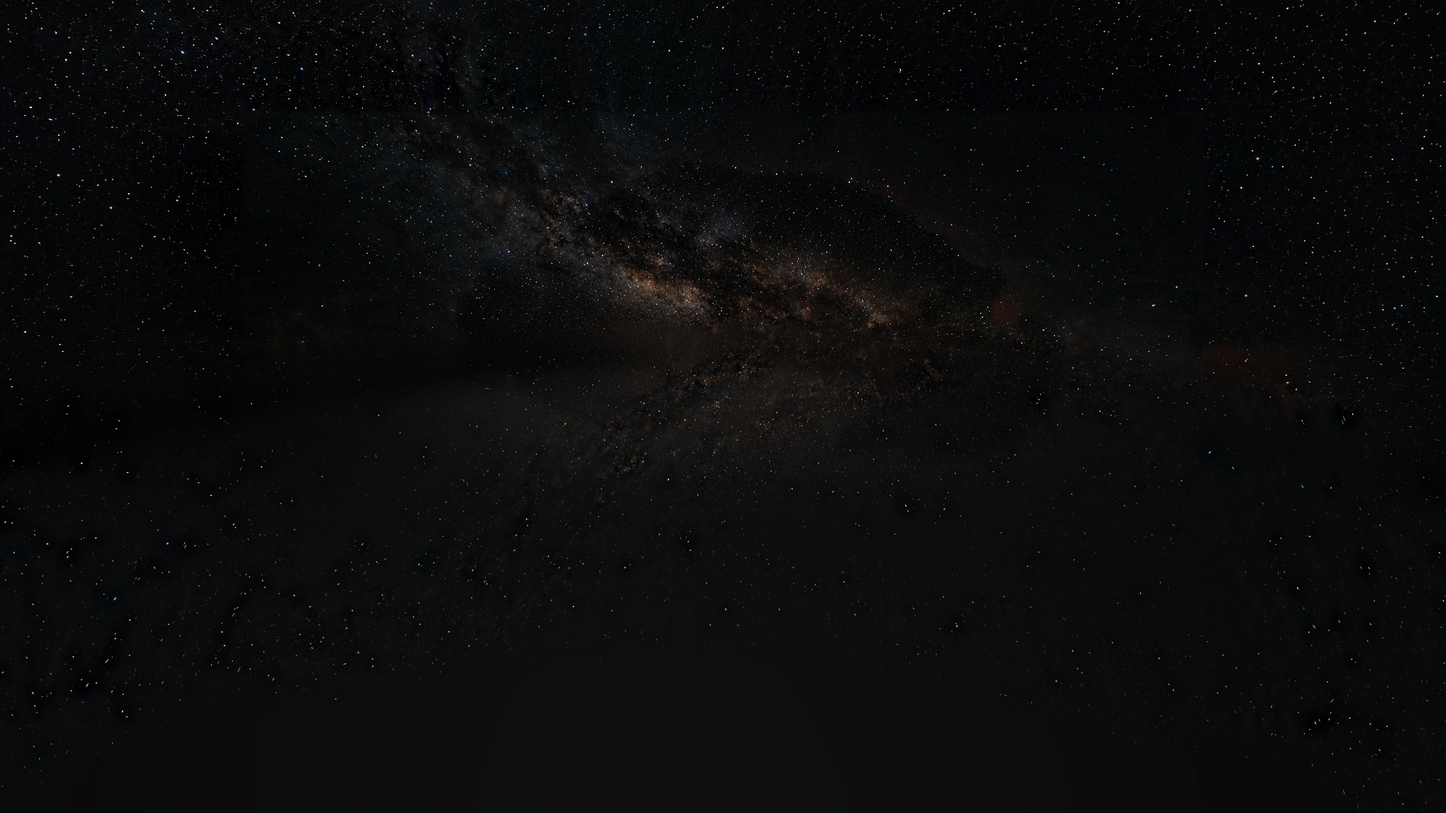
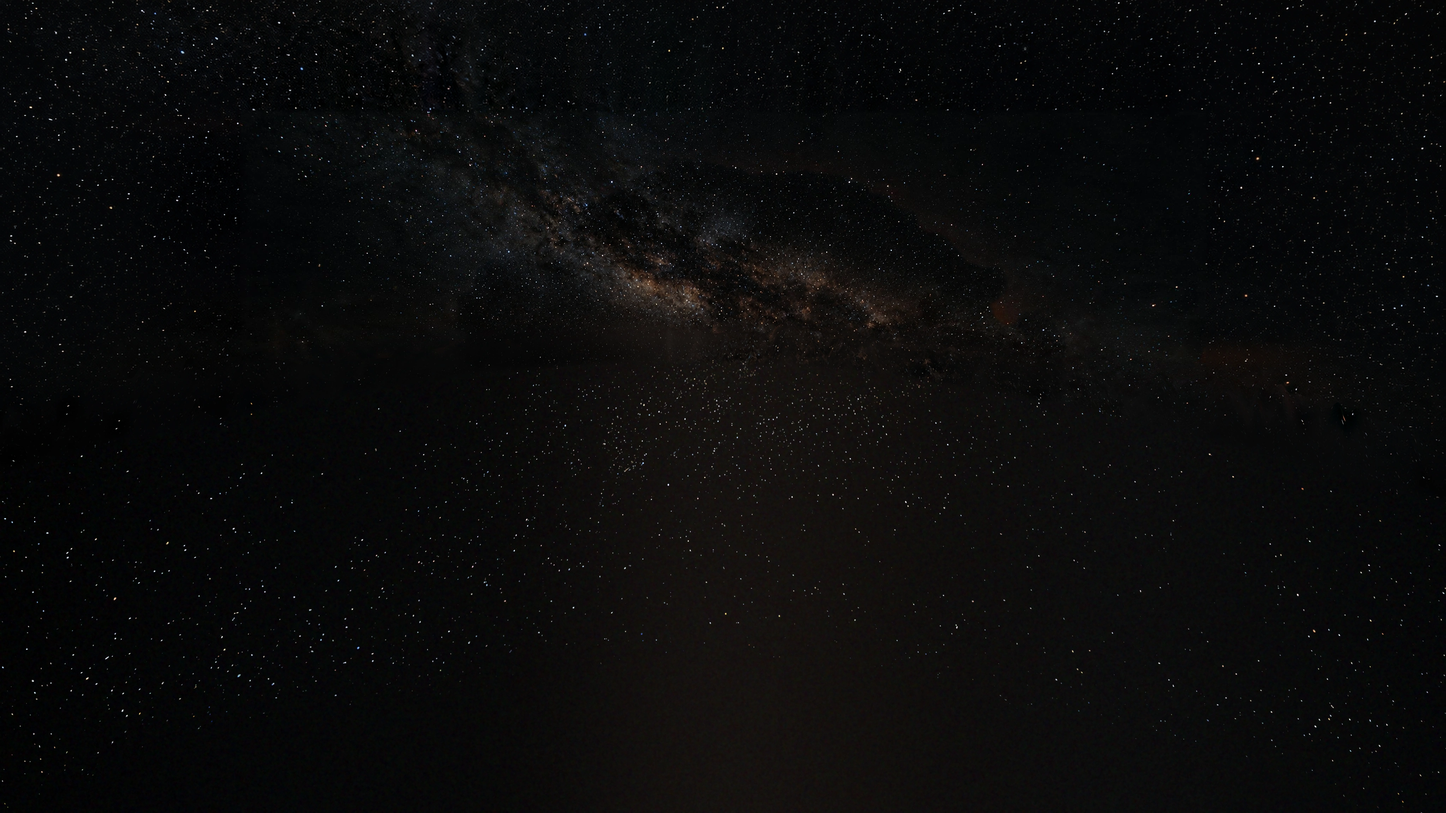
sun item 4: sky card below the limb is a smooth level with star points and grain; ground.ts helper renamed for the shader audit

diff --git a/src/stops/sun/ground.ts b/src/stops/sun/ground.ts
@@ -97,7 +97,7 @@ ${GRADE_GLSL}
 float lumAt(sampler2D map, vec2 uv, float lod) {
   return dot(textureLod(map, uv, lod).rgb, vec3(0.3, 0.5, 0.2));
 }
-vec4 surface(sampler2D map, vec2 uv, vec2 dx, vec2 dy, vec2 cell, float lod, float calm, out vec2 moved) {
+vec4 boiled(sampler2D map, vec2 uv, vec2 dx, vec2 dy, vec2 cell, float lod, float calm, out vec2 moved) {
   vec2 e = cell * uBoil.z;
   float lX = lumAt(map, uv + vec2(e.x, 0.0), lod) - lumAt(map, uv - vec2(e.x, 0.0), lod);
   float lY = lumAt(map, uv + vec2(0.0, e.y), lod) - lumAt(map, uv - vec2(0.0, e.y), lod);
@@ -187,7 +187,7 @@ void main() {
     float tone = clamp(stLimb(now) / stLimb(graze), 0.25, 5.0);
     float cellU = uCellSize / dist / (2.0 * ST_TAN.x * ST_CANVAS.z);
     vec2 cell = vec2(cellU, cellU * max(graze, 0.08) * uSize.x / uSize.y);
-    vec4 s = surface(uPlate, uv, dx, dy, cell, log2(max(cell.y * uSize.y * 0.25, 1.0)), 0.0, moved);
+    vec4 s = boiled(uPlate, uv, dx, dy, cell, log2(max(cell.y * uSize.y * 0.25, 1.0)), 0.0, moved);
     vec3 even = mix(vec3(1.0), uEvenTint.rgb, smoothstep(uEven.x, uEven.y, ring)) * mix(1.0, uEvenTint.w, smoothstep(uEven.z, uEven.w, ring));
     col = s.rgb * max(s.a * inflow, 0.0) * tone * mix(vec3(1.0), even, lift);
   }
@@ -203,7 +203,7 @@ void main() {
     float cellU = uApronCell.x / away / (2.0 * AP_TAN.x);
     vec2 cell = vec2(cellU, cellU * max(seen, 0.08) * uApronSize.x / uApronSize.y);
     vec2 m;
-    vec4 s = surface(uApron, uvB, dxB, dyB, cell, log2(max(cell.y * uApronSize.y * 0.25, 1.0)), uApronCell.y, m);
+    vec4 s = boiled(uApron, uvB, dxB, dyB, cell, log2(max(cell.y * uApronSize.y * 0.25, 1.0)), uApronCell.y, m);
     col = mix(col, s.rgb * max(s.a * inflow, 0.0) * tone, w);
     moved = mix(moved, m, w);
   }

diff --git a/assets-src/sun/terrain/sky.py b/assets-src/sun/terrain/sky.py
@@ -22,6 +22,7 @@ SEED = 20261122
 TOWARD = {'from': (0.03, 0.1), 'to': (1.2, 2.2), 'window': 2.0, 'share': 50, 'az': 0.3, 'el': (0.05, 0.25), 'grow': (0.3, 0.9), 'hold': 6.0}
 PLATE = 'public/assets/sun/full/plate.jpg'
 UNDER = {'amount': 0.02, 'over': (0.15, 0.5)}
+BELOW = {'over': (0.35, 1.35), 'point': 9, 'star': (0.02, 0.06), 'even': 160, 'full': (2.0, 6.0), 'band': (0.0, 1.5), 'wide': 240, 'grain': (1.0, 1.0, 2.0, 1.5, 3.0)}
 
 where = [v for v in sys.argv[1:] if not v.startswith('--')]
 OUT = where[0] if where else 'public/assets/sun'
@@ -51,6 +52,14 @@ inv = np.array([[k, 0, LEFT * mask.shape[1] + 0.5 * k - 0.5], [0, k, TOP * mask.
 mask = np.clip(cv2.GaussianBlur(cv2.warpAffine(mask, inv, (w, h), flags=cv2.INTER_LINEAR | cv2.WARP_INVERSE_MAP), (0, 0), 20) * 2 - 1, 0, 1)
 arch = (1 - ARCH * mask)[..., None]
 floor = cv2.GaussianBlur(out, (0, 0), SOFT)
+under = step(-above, *BELOW['over'])[..., None]
+smooth_line = cv2.GaussianBlur(line[None, :], (0, 0), BELOW['even'], borderType=cv2.BORDER_REPLICATE)[0]
+lum = np.array([0.2126, 0.7152, 0.0722], np.float32)
+peak = sky - cv2.morphologyEx(sky, cv2.MORPH_OPEN, cv2.getStructuringElement(cv2.MORPH_ELLIPSE, (BELOW['point'], BELOW['point'])))
+peak = np.maximum(peak, 0) * step(cv2.GaussianBlur(peak @ lum, (0, 0), 1.0), *BELOW['star'])[..., None]
+turned = np.roll(smooth_line, SHIFT)[None, :] - (rows - smooth_line[None, :])
+point = cv2.remap(np.roll(peak, SHIFT, axis=1), src_x, np.clip(turned, 0, h - 1).astype(np.float32), cv2.INTER_LINEAR, borderMode=cv2.BORDER_REPLICATE) * step(turned, 0, DEEP)[..., None]
+del peak
 
 free = (1 - ground)[..., None]
 plain = cv2.GaussianBlur(sky, (0, 0), SOFT)
@@ -86,6 +95,10 @@ back = large(back * (1 + (dark - 1) * seen_s))
 weight = (1 - step(above, HAZE[0], HAZE[1]))[..., None]
 stars = (STARS + (1 - STARS) * step(above, NEAR[0], NEAR[1]))[..., None]
 card = np.maximum(back + (1 - weight) * (floor - back) + (out - floor) * stars, 0) * arch
+band = (step(above, BELOW['band'][0] - 0.01, BELOW['band'][0]) * (1 - step(above, BELOW['band'][1] - 0.3, BELOW['band'][1]))).astype(np.float32)[..., None]
+held = cv2.GaussianBlur((back * arch * band).sum(0)[None], (0, 0), BELOW['wide'], borderType=cv2.BORDER_REPLICATE) / np.maximum(cv2.GaussianBlur(band.sum(0)[None], (0, 0), BELOW['wide'], borderType=cv2.BORDER_REPLICATE)[..., None], 1e-3)
+plain_card = card
+card = card * (1 - under) + (held + point * (STARS + (1 - STARS) * step(-above, *BELOW['full']))[..., None]) * under
 rest = weight * (plain - back) * arch
 
 f = fit()
@@ -120,7 +133,7 @@ def toward(level):
     want[PLATE_TOP // 2:] -= cv2.resize(pl, (w, h - PLATE_TOP // 2), interpolation=cv2.INTER_AREA)
     del pl
     n = int(TOWARD['to'][1] / EL * SIZE[1]) + 1
-    need = cv2.remap(want - (card + rest) / arch, px, py, cv2.INTER_LINEAR, borderMode=cv2.BORDER_REPLICATE)[:n] - veil[:n, :, None] * np.array(g['colour'], np.float32)
+    need = cv2.remap(want - (plain_card + rest) / arch, px, py, cv2.INTER_LINEAR, borderMode=cv2.BORDER_REPLICATE)[:n] - veil[:n, :, None] * np.array(g['colour'], np.float32)
     ok = seen[:n]
     per = SIZE[0] / (2 * AZ)
     cols = np.arange(SIZE[0], dtype=np.float32)
@@ -173,6 +186,12 @@ half = cv2.resize(img, (SIZE[0] // 2, SIZE[1] // 2), interpolation=cv2.INTER_ARE
 write(f'{OUT}/web/haze.png', np.where(half * 255 < 0.25, 0, np.clip(np.floor(half * 255 + rng.rand(*half.shape) + rng.rand(*half.shape) - 0.5), 0, 255)).astype(np.uint8)[::-1])
 json.dump({'azDeg': AZ, 'elDeg': EL, 'gain': GAIN, 'size': list(SIZE), 'riseDeg': g['riseDeg'], 'under': UNDER['amount'], 'underDeg': list(UNDER['over'])}, open(NOTE, 'w'), indent=2)
 cimg = display(card)
+dust = np.random.RandomState(SEED + 1)
+speck = dust.randn(h, w).astype(np.float32)
+cloud = cv2.GaussianBlur(dust.randn(h, w).astype(np.float32), (0, 0), BELOW['grain'][2])
+tint = cv2.GaussianBlur(dust.randn(h, w, 3).astype(np.float32), (0, 0), BELOW['grain'][4])
+tint = (tint - tint.mean(2, keepdims=True)) / tint.std()
+cimg = np.clip(cimg + under * ((BELOW['grain'][0] * speck + BELOW['grain'][1] * cloud / cloud.std())[..., None] + BELOW['grain'][3] * tint) / 255, 0, 1)
 bl = display(back)
 for e in (-2, -1, -0.5, 0, 0.5, 1, 2, 3, 5):
     sel = (np.abs(above - e) < 0.1) & (np.abs(cols[None, :] - 0.5) < 0.5)

diff --git a/assets-src/sun/RECIPE.md b/assets-src/sun/RECIPE.md
@@ -213,7 +213,8 @@ Apron (`apron.jpg`), 6 of 6 takes:
 - Rule: the card stands at infinity, so it carries only what is at infinity: the stars and a smooth background. What follows the limb (the glow and the smoky orange haze above it) is in `haze.png`, drawn by the limb fringe in limb coordinates.
 - Steps: the canvas minus the plate is the sky scene. Below a line 2.1 deg (centre) to 4.6 deg (sides) above the limb (`LINE`) the fine part (stars) is a fill taken from 160 px to the side (`SHIFT`), so no star is mirrored; the fill fades out over 240 rows (`DEEP`) and the card shader fades the card out between 0.22 and 0.34 of its height from the bottom (`look.skyTerrain.floor`). `back` is the smooth background: the sky from 5 to 6 deg above the limb up, continued downward through the haze band and below the limb line by normalised Gaussians (110, 330 and 990 px, at one eighth size), pressed down where the wide true sky is darker (`BACK`). Card = `back` + (1 - w) (low pass of the sky, Gaussian 24 px, minus `back`) + the fine part times the star factor, w = 1 below 2.5 deg falling to 0 at 5.5 deg (`HAZE`), star factor 0.4 near the limb rising to 1 between 1.7 and 4.5 deg (`STARS`, `NEAR`), all times 1 minus 0.25 of the loop mask (`ARCH`).
 - Phase 6, item 4, why: before, the card's low frequencies were dimmed to nothing below 0.5 deg above the limb line of frame 90 and the orange haze from 0.9 deg up stayed in the card. In frames 0 to 60 the limb stands 0.3 to 0.9 deg lower in the frame than at 90, so a dark band opened between the flames and the card's haze, and the haze kept the curve of the old limb line (the shell edge the critics saw).
-- Checks: `python3 tools/assets/mirrorcheck.py public/assets/sun/full/sky-terrain.webp`; limb strips of frames 0, 30, 60, 90 at 3 times gain; frame 90 against the approved close image.
+- Below the limb of frame 90 (`BELOW`): the rise cover looks at the card down to about 12 deg under that limb (frames 203 to 219), where the picture has no sky. From 0.35 to 1.35 deg under the limb the card crosses over to a smooth level plus star points and grain. The level is the card's own background in the band 0 to 1.5 deg above the limb, one value per column, Gaussian 240 px along the row. The star points are the white top hat (9 px) of the sky scene, kept where its blurred luminance is above 0.02 to 0.06 scene units, turned about the limb line smoothed with a Gaussian of 160 px and taken from 160 px to the side, at 0.4 near the limb rising to 1 from 2 to 6 deg below. Grain in display levels, seed `SEED + 1`: speck 1, cloud 1 (Gaussian 2 px), colour 1.5 (Gaussian 3 px, channel mean removed), so the 8 bit steps and the coder's chroma steps of the flat field do not show as lines. No cloud texture is turned over, so nothing can smear. Why: the first card of item 4 turned the sky's fine part about the jagged limb line, which gave chevron smears and a vertical edge in the rise cover at 3 times gain.
+- Checks: `python3 tools/assets/mirrorcheck.py public/assets/sun/full/sky-terrain.webp`; limb strips of frames 0, 30, 60, 90 at 3 times gain; frame 90 against the approved close image; every frame 203 to 219 at 1 and 3 times gain.
 
 ### public/assets/sun/<set>/haze.png and src/stops/sun/haze.json
 

diff --git a/assets-src/sun/NOTES.md b/assets-src/sun/NOTES.md
@@ -779,3 +779,12 @@ Nothing goes onto main before Phase 6, as before. The whole film round 30 starts
 - The critics' words (mail 34): at 247 "granulation reads as glossy poured fluid, and the flow pinches into the pores instead of forming discrete cells"; at 360 "one busy, even, painterly noise everywhere, with no change in scale toward the limb. The sunspots all share the same starburst template, and the surface reads as over-sharpened illustration". Wanted by the Builder: finer cells with dark lanes toward the limb generated into the map, approved pixels as the low frequencies, the flow kept out of the pores, R1 at 360 (9) not harmed.
 - How the map is built (`assets-src/sun/orbit/wrap.py`, recipe): hero pixels where the hero's view cosine is above 0.42, fading out to 0.2; the rest is 12 copies of the hero's central cap on the vertices of an icosahedron, and in the limb zone (50 to 125 degrees from the hero's axis) the fill is levelled to the hero's low-pass colour and local contrast (median 0.53), which is why the ring round the hero disc in the map is soft and low in contrast (`h1p/u2-wrap-whole.jpg`).
 - The flow in `globe.ts`: `push` = gradient of the map luminance at lod + 1.5 (about 1 degree, 8 px at the hold) times `boil.reach` 0.0018, capped at 0.006 rad (2.7 px at the hold); the sample is taken at `d + push * swing`, swing = 0.5 (sin(2 pi t / 2.6 + slow) - sin(slow)), zero at holdMid. Round a dark pore the gradient points outward, so with swing above 0 the pore shrinks and the cells round it stretch toward it: the pinch. First test to make: final 247 with `boil.reach` 0 beside now, then a weight on the push that is zero in and round dark pores (`wide` luminance is already sampled further down in `main`).
+
+## Item 4 closed on the final tier (05:05 to 05:14 UTC, main 2621f00 = engine batch 19 7a880ac6)
+
+- Finals `out/work/sun/rf16` (new card, `boiled`, batch 19): 247 and 360 the SAME BYTES as `rf15` (item 4 on batch 18) and as `rf14` (before item 4, batch 17). So batch 19 does not change my judged rise frame at the final tier either (no flight stars in the Sun's rise, see above), and the rename moves no pixel in 247 and 360.
+- 0, 30, 60, 90 against `rf15` (first item 4 card): 15.4 to 15.8 percent of the pixels differ (the lossy coder above the limb), 0.04 to 0.06 percent by more than 3 levels, share by more than 8 levels 0.00000, largest 24 (frame 0), 8, 7, 7. Against `rf14` (before item 4): 28 to 30 percent differ, 3.3 to 4.6 percent by more than 3, 0.4 to 0.8 percent by more than 8 (the limb band, as meant).
+- Seconds a frame (each frame its own run, so each carries the page load): 90 61.8, 0 64.6, 60 65.2, 30 64.5, 360 33.7, 247 102.4. `rf15` had 90 61.3 as the first of a run, so the terrain view costs the same as before.
+- Limb strips at 3 times gain, before item 4 (`rf14`) over now (`rf16`): `h1p/w9-f{0,60,90}-limb-{left,right,whole}-gain3-before-over-after.*`, frame 30 against `rf15`: `h1p/w9b-*`.
+- Committed: `sky.py` (`BELOW`), the card (both sets), recipe, `ground.ts` (`surface` renamed `boiled`).
+- Still to do for the READY: review tier every frame 200 to 224 on this tree (`rv10`), harness sheets terrain and rise, measure, `npx tsx tools/repeat.ts --stop sun --sessions 3 --runs 2`.
